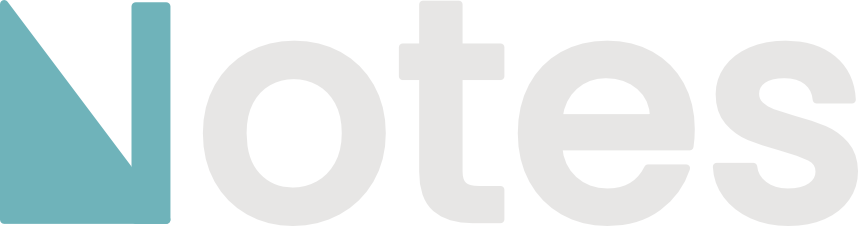
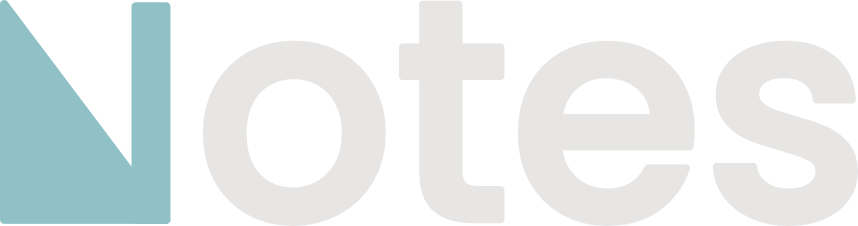
feat(theme): the mark is the brand teal two steps deeper, with a white tick
Judged live: #6FB3BA was still too far from the misty brand colour. MARK is
#8FC1C6 (2.0:1 on white, 9:1 on the dark sheet) and ON_MARK is white in both
themes, Tyr's call over the dark tick: soft by design, never body text.
Wordmarks regenerated.

Claude-Session: https://claude.ai/code/session_015pGNNr8QRRERVHp8iqUrEg

Changed region(s): [[0.0, 0.0, 0.2121, 0.9912]]

diff --git a/src/constants/themes.js b/src/constants/themes.js
@@ -1,13 +1,14 @@
 // The one teal (2026-09-14). Marks and fills — the checkbox, the bullet dot, the
 // quote bar, drop markers, focus rings, the selection band, switches, buttons,
-// the wordmark's N — are the same colour in both themes. It is the misty brand
-// teal brought to mid-lightness (hue 186, the same as #A4CACE and #2A737D;
-// #2593A0 was judged too saturated and read blue): 2.4:1 on white, 7.5:1 on
-// the dark sheet. Whatever sits on it is dark ink in both themes (7.9:1), since
-// white on a misty fill is 2.4:1. Accent *as ink* cannot be one colour —
-// nothing passes 4.5:1 on both grounds — so that is `ACCENT.text`, per theme.
-export const MARK = "#6FB3BA";
-export const ON_MARK = "#14110F"; // a tick, a bold label, never body text
+// the wordmark's N — are the same colour in both themes: the misty brand teal
+// (#A4CACE, hue 186) two steps deeper. Judged live 2026-09-14 against #2593A0
+// (read blue: same hue, twice the saturation) and #6FB3BA (still too far from
+// the brand). 2.0:1 on white, 9:1 on the dark sheet. What sits on it is white
+// in both themes, Tyr's call over a dark tick: 2:1, a soft tick by design,
+// never body text. Accent *as ink* cannot be one colour — nothing passes 4.5:1
+// on both grounds — so that is `ACCENT.text`, per theme.
+export const MARK = "#8FC1C6";
+export const ON_MARK = "#FFFFFF";
 
 export const NIGHT = {
   name: "night",
@@ -81,7 +82,7 @@ export const NIGHT = {
     hoverColor: "rgba(255,255,255,0.6)",
     hoverUnderline: "rgba(255,255,255,0.3)",
   },
-  mark: { bg: "rgba(111, 179, 186, 0.4)" },
+  mark: { bg: "rgba(143, 193, 198, 0.4)" },
   calloutIconHover: "rgba(255,255,255,0.06)",
   frontmatter: "rgba(255,255,255,0.02)",
   codeCopy: {
@@ -184,7 +185,7 @@ export const DAY = {
     hoverColor: "rgba(0,0,0,0.5)",
     hoverUnderline: "rgba(0,0,0,0.25)",
   },
-  mark: { bg: "rgba(111, 179, 186, 0.3)" },
+  mark: { bg: "rgba(143, 193, 198, 0.35)" },
   calloutIconHover: "rgba(0,0,0,0.06)",
   frontmatter: "rgba(0,0,0,0.02)",
   codeCopy: {

diff --git a/CHANGELOG.md b/CHANGELOG.md
@@ -5,7 +5,7 @@
 ### Improvements
 
 - **Dark mode is a quieter grey, not near-black** — The note used to sit on a near-black, faintly violet ground with a much lighter blue-grey sidebar beside it, so the two read as different materials and white text glared on the sheet; the dimmest text (the *Notes* label, the note's name in the top row, the sidebar's icons) fell below the legibility floor. Dark is now one neutral grey family with small steps, the same territory as Obsidian and Notion: the sheet a shade darker than the sidebar, the selected row a shade lighter again, and the ink a whisper warm rather than blue-white. Every text tier is now readable on every surface it sits on. Light mode's greys are unchanged.
-- **One teal in both modes** — The tick box, the bullet dot, the quote bar, the caret's focus ring and the wordmark's N used to be a deep teal in Light and a pale, greyish one in Dark, so the same things looked like different objects depending on the theme. They are now the same misty mid teal in both, the brand colour at a lightness that works on both grounds, with a dark tick on it. Where the accent is something you *read* (a wikilink, a `#tag`, a search hit, the highlighted toolbar button) it keeps a per-theme shade so it stays legible on its ground. Callouts in Dark sit on a faint tint of their own colour rather than the old lit-panel greys.
+- **One teal in both modes** — The tick box, the bullet dot, the quote bar, the caret's focus ring and the wordmark's N used to be a deep teal in Light and a pale, greyish one in Dark, so the same things looked like different objects depending on the theme. They are now the same misty mid teal in both, the brand colour a shade deeper, with a white tick on it. Where the accent is something you *read* (a wikilink, a `#tag`, a search hit, the highlighted toolbar button) it keeps a per-theme shade so it stays legible on its ground. Callouts in Dark sit on a faint tint of their own colour rather than the old lit-panel greys.
 - **Hiding and showing the sidebar is one smooth slide** — The panel used to crush as it closed: everything inside it re-laid out on every frame, the top-row buttons jumped to their new places before the panel had moved, and the note's name leapt left and slid back. The sidebar now slides out under the window's edge as one piece, its contents fading, while Undo and Redo and the note's name glide to their new places on the same clock, and the panel toggle, Search and New note fade into the corner as the panel finishes leaving. Everything settles together. If your system asks for reduced motion, the two states swap with no travel.
 - **The sidebar stays beside the note at every window width** — In a window narrower than about 800px the sidebar used to leave the layout and come back, when you asked for it, as a panel floating over the note behind a grey wash, closing itself when you opened a note or pressed Escape. It now behaves the same at every width: shown, it sits beside the editor and the writing column gets narrower, as in Apple Notes and Obsidian; hidden, the column has the window. Nothing decides that but the panel toggle. In a narrow window a sidebar you dragged wide gives way first, down to its own minimum, so the note always keeps about 34 characters a line beside it; widen the window and the sidebar takes its dragged width back. The writing column also gives up its side margins sooner as the window narrows, and the window can now go down to 520px instead of 600.
 - **Full screen puts the chrome back in the corner** — On macOS, the wordmark and, with the sidebar hidden, the panel toggle, Search and New note sat 86px in from the left edge to clear the traffic lights. Full screen hides the lights, so that space was empty and the note's name sat a long way right for nothing. Both now move back to the ordinary inset while full screen is on and return when it ends. Nothing changes on Windows or on the web, where there were never lights to clear.

diff --git a/.claude/rules/ui-chrome-and-theme.md b/.claude/rules/ui-chrome-and-theme.md
@@ -55,15 +55,17 @@ right; naming greys by darkness is what makes every region read as a separate bo
 Text is three steps (`TEXT.primary` / `secondary` / `muted`), all clearing AA on the ground.
 
 **The accent is two tokens, and one of them is shared** (2026-09-14, Tyr's ask: the tick box
-the same colour in both modes). `ACCENT.primary` is the *mark* colour, `MARK` = `#6FB3BA` in
+the same colour in both modes). `ACCENT.primary` is the *mark* colour, `MARK` = `#8FC1C6` in
 both themes: the checkbox fill, the bullet dot, the quote bar, drop markers, focus rings, the
 selection band, the switch, the confirm button, the info toast, the wordmark's N. It is the
-misty brand teal (`#A4CACE`, hue 186) brought to mid-lightness, judged live against `#2593A0`
-(the darkest teal that carries a white tick; Tyr read it as blue and dark: same hue, twice the
-saturation). At 2.4:1 on white it sits under WCAG's 3:1 line for graphical objects, accepted:
-a filled 16px square is plainly visible there, and misty is the brand; 7.5:1 on the dark sheet.
-`ACCENT.onAccent` is `ON_MARK`, **dark ink in both themes** (`#14110F`, 7.9:1 on the mark),
-because white on a misty fill is 2.4:1; a tick or a bold label, never body text. `ACCENT.text`
+misty brand teal (`#A4CACE`, hue 186) two steps deeper, judged live against `#2593A0` (the
+darkest teal that carries a white tick at 3.7:1; Tyr read it as blue and dark: same hue, twice
+the saturation) and `#6FB3BA` (still too far from the brand). At 2.0:1 on white it sits under
+WCAG's 3:1 line for graphical objects, accepted: misty *is* the identity, and a filled 16px
+square still reads; 9:1 on the dark sheet. `ACCENT.onAccent` is `ON_MARK`, **white in both
+themes**, Tyr's call over a dark tick (offered because white on this fill is 2:1): the tick
+and a bold button label are soft by design, never body text. Deepen the mark before ever
+putting body text on it. `ACCENT.text`
 is accent *as ink* and is per theme, because nothing passes 4.5:1 on both white and a dark
 ground: `#2A737D` in Light (5.5:1, the deep teal words need), `#9CC9CE` in Dark (9:1, a step
 off the brand colour); wikilinks, `#tags`, search hits, the active toolbar and slash-menu
